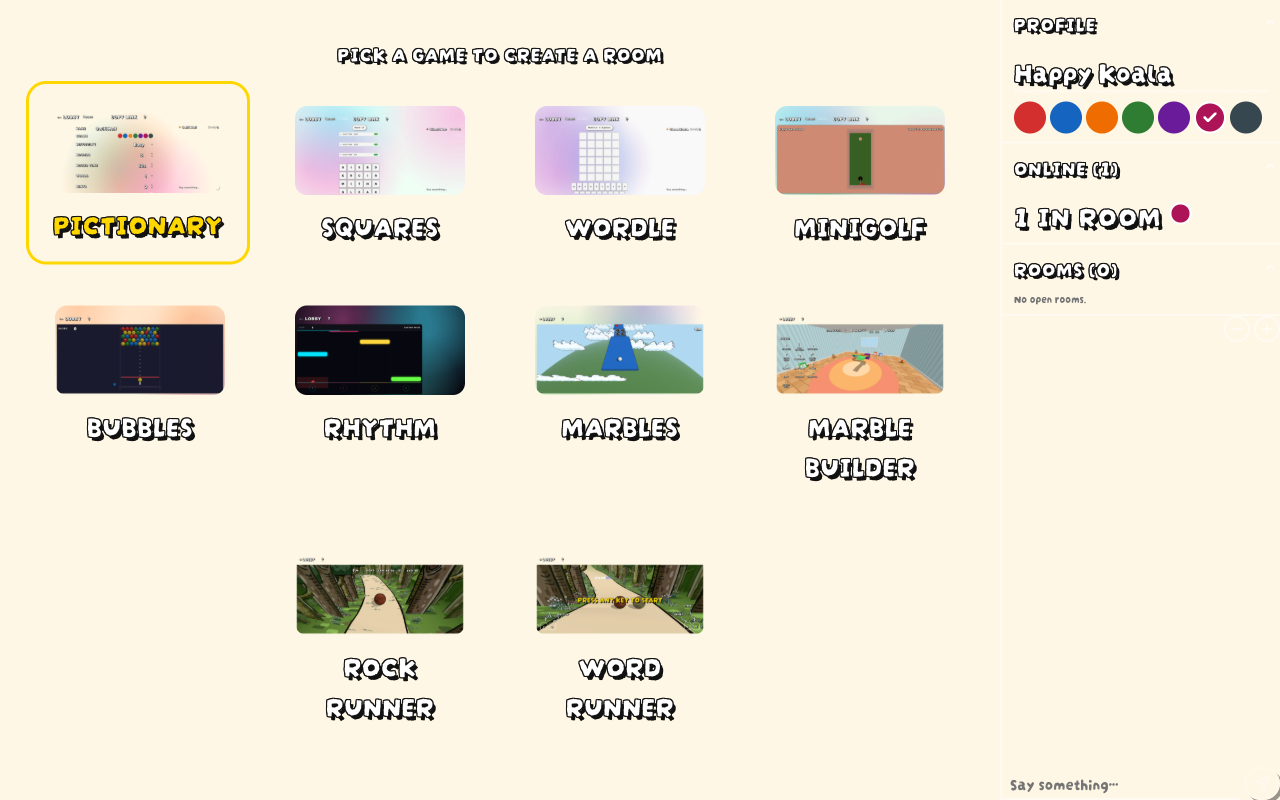
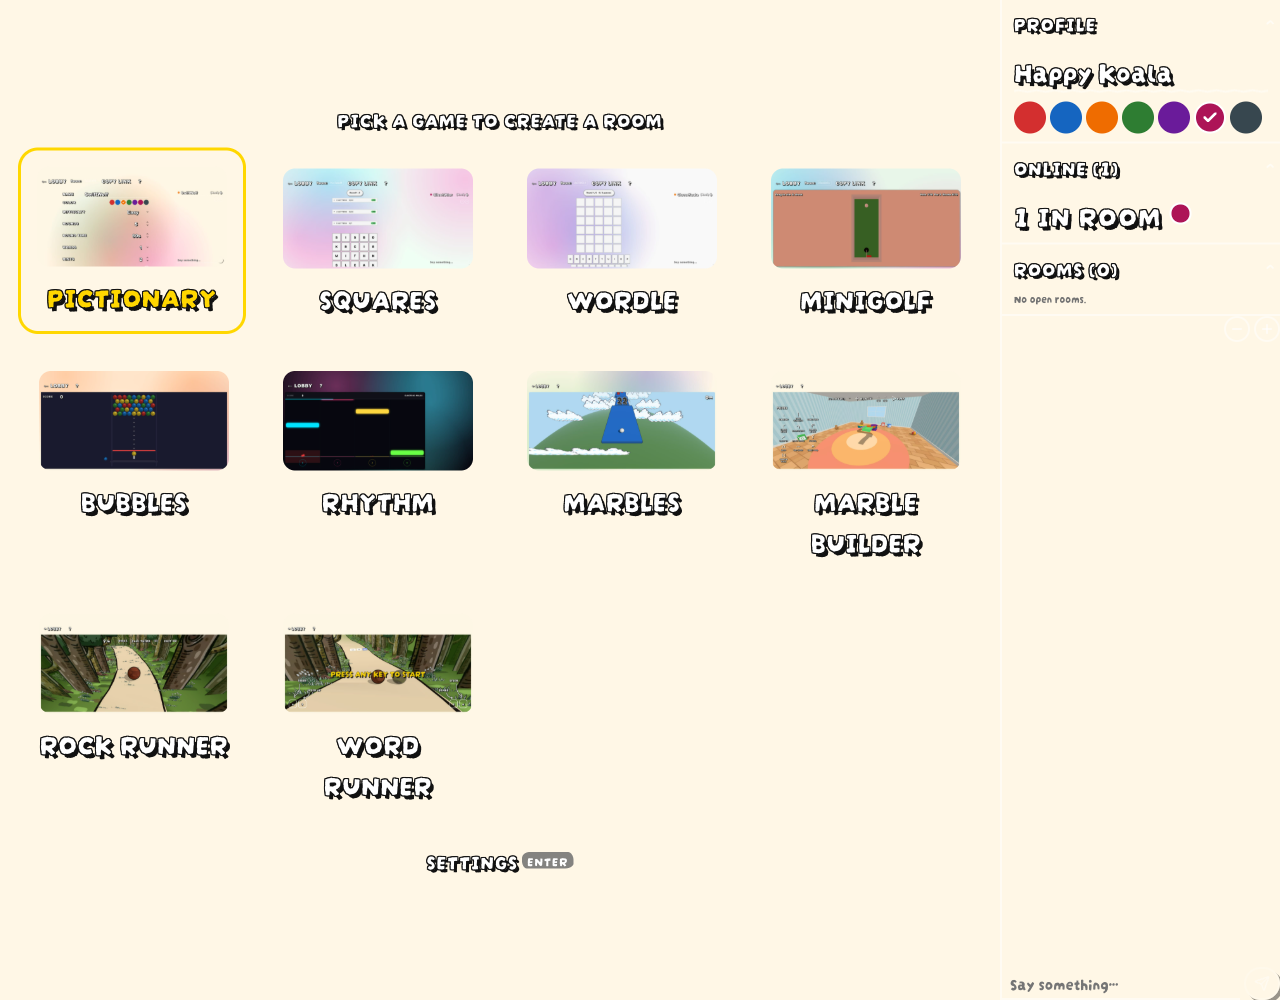
fix: use our own Trystero app id so lobby and game peers find each other, lay the picker out as a grid

diff --git a/src/views/Games/Lobby/Lobby.vue b/src/views/Games/Lobby/Lobby.vue
@@ -516,24 +516,24 @@ onMounted(async () => {
 }
 
 .lobby__picker-games {
-  display: flex;
+  display: grid;
+  grid-template-columns: repeat(auto-fill, minmax(13rem, 1fr));
   gap: var(--spacing-4);
-  flex-wrap: wrap;
-  justify-content: center;
+  width: min(100%, 60rem);
 }
 
 .lobby__game-card {
   display: flex;
   flex-direction: column;
   align-items: center;
+  justify-content: flex-start;
   gap: var(--spacing-2);
-  padding: var(--spacing-5, 1.5rem) var(--spacing-6, 2rem);
+  padding: var(--spacing-4);
   border: 3px solid transparent;
   border-radius: 1.25rem;
   background: transparent;
   cursor: pointer;
   transition: transform 0.1s ease;
-  width: 14rem;
   touch-action: manipulation;
 }
 
@@ -679,16 +679,12 @@ onMounted(async () => {
 
   .lobby__picker-games {
     gap: var(--spacing-3);
-    flex-wrap: nowrap;
-    overflow-x: auto;
-    width: 100%;
-    justify-content: flex-start;
+    grid-template-columns: repeat(auto-fill, minmax(9rem, 1fr));
+    overflow-y: auto;
   }
 
   .lobby__game-card {
-    padding: var(--spacing-3) var(--spacing-4);
-    width: 10rem;
-    flex: 0 0 auto;
+    padding: var(--spacing-3);
   }
 }
 </style>

diff --git a/src/views/Games/Lobby/useLobbySession.ts b/src/views/Games/Lobby/useLobbySession.ts
@@ -13,6 +13,7 @@ import { chatMessageCreate, type ChatMessage } from '@webgamekit/chat'
 import { useLobbyStore } from '@/stores/lobby'
 import type { LobbyPlayer, LobbyRoom } from '@/types/lobby'
 import { LOBBY_CHANNEL, REANNOUNCE_MS } from './constants'
+import { P2P_CONFIG } from '@/config/p2p'
 
 const HELLO_CHANNEL = 'lb-hello'
 const CHAT_CHANNEL = 'lb-chat'
@@ -55,7 +56,7 @@ export const useLobbySession = (initialName: string, initialColor: string) => {
 
   const init = (): void => {
     if (!p2pIsSupported()) return
-    const joined = p2pJoin(LOBBY_CHANNEL)
+    const joined = p2pJoin(LOBBY_CHANNEL, P2P_CONFIG)
     session.value = joined
     localPeerId.value = joined.peerId
 

diff --git a/src/views/Games/Pictionary/usePictionarySession.ts b/src/views/Games/Pictionary/usePictionarySession.ts
@@ -18,6 +18,7 @@ import {
 import { dictionaryPickRandom, type DictionaryDifficulty } from '@webgamekit/dictionary'
 import type { StrokeEvent, FillEvent } from '@webgamekit/canvas-editor'
 import { usePictionaryStore, type PictionaryPlayer } from '@/stores/pictionary'
+import { P2P_CONFIG } from '@/config/p2p'
 
 const INTERMISSION_MS = 10_000
 const CHOICE_DURATION_MS = 10_000
@@ -385,7 +386,7 @@ const initSessionForContext = (ctx: PictionaryContext, roomId: string): void => 
     })
     return
   }
-  const joined = p2pJoin(roomId)
+  const joined = p2pJoin(roomId, P2P_CONFIG)
   ctx.session.value = joined
   ctx.localPeerId.value = joined.peerId
   announceSelf(ctx, joined)

diff --git a/src/views/Games/Minigolf/useMinigolfSession.ts b/src/views/Games/Minigolf/useMinigolfSession.ts
@@ -12,6 +12,7 @@ import {
 import { chatMessageCreate, type ChatMessage } from '@webgamekit/chat'
 import { useMinigolfStore, type MgPlayer } from '@/stores/minigolf'
 import { REANNOUNCE_DELAY_MS } from './constants'
+import { P2P_CONFIG } from '@/config/p2p'
 
 const HELLO_CHANNEL = 'mg-hello'
 const AVATAR_CHANNEL = 'mg-avatar'
@@ -189,7 +190,7 @@ const initSessionForContext = (ctx: MgContext, roomId: string): void => {
     })
     return
   }
-  const joined = p2pJoin(roomId)
+  const joined = p2pJoin(roomId, P2P_CONFIG)
   ctx.session.value = joined
   ctx.localPeerId.value = joined.peerId
   announceSelf(ctx, joined)

diff --git a/src/composables/useBaseMultiplayerSession.ts b/src/composables/useBaseMultiplayerSession.ts
@@ -10,6 +10,7 @@ import {
   p2pIsSupported,
   type P2PSession
 } from '@webgamekit/multiplayer-p2p'
+import { P2P_CONFIG } from '@/config/p2p'
 
 const REANNOUNCE_DELAY_MS = 2000
 
@@ -99,7 +100,7 @@ export const useBaseMultiplayerSession = <
   const isHost = computed(() => !!localPeerId.value && options.getHostId() === localPeerId.value)
 
   const _connect = async (roomId: string): Promise<void> => {
-    const s = await p2pJoin(roomId, options.matchmakerRoom)
+    const s = await p2pJoin(roomId, P2P_CONFIG)
     session.value = s
     localPeerId.value = s.peerId
     announceSelf(s, options)

diff --git a/src/views/Games/BubbleShooter/useBubbleShooterSession.ts b/src/views/Games/BubbleShooter/useBubbleShooterSession.ts
@@ -22,6 +22,7 @@ import type {
   UseBubbleShooterSessionOptions,
   BsContext
 } from './types'
+import { P2P_CONFIG } from '@/config/p2p'
 
 const CONFIG_CHANNEL = 'bs-config'
 const HELLO_CHANNEL = 'bs-hello'
@@ -134,7 +135,7 @@ const bindGameEvents = (ctx: BsContext, joined: P2PSession): void => {
 
 const initSessionForContext = (ctx: BsContext, roomId: string): void => {
   if (!p2pIsSupported()) return
-  const joined = p2pJoin(roomId)
+  const joined = p2pJoin(roomId, P2P_CONFIG)
   ctx.session.value = joined
   ctx.localPeerId.value = joined.peerId
   announceSelf(ctx, joined)

diff --git a/src/views/Games/MarbleMadness/useMarbleMadnessSession.ts b/src/views/Games/MarbleMadness/useMarbleMadnessSession.ts
@@ -22,6 +22,7 @@ import type {
   UseMarbleMadnessSessionOptions,
   MmContext
 } from './types'
+import { P2P_CONFIG } from '@/config/p2p'
 
 const HELLO_CHANNEL = 'mm-hello'
 const AVATAR_CHANNEL = 'mm-avatar'
@@ -183,7 +184,7 @@ const bindGameEvents = (ctx: MmContext, joined: P2PSession): void => {
 
 const initSessionForContext = (ctx: MmContext, roomId: string): void => {
   if (!p2pIsSupported()) return
-  const joined = p2pJoin(roomId)
+  const joined = p2pJoin(roomId, P2P_CONFIG)
   ctx.session.value = joined
   ctx.localPeerId.value = joined.peerId
   announceSelf(ctx, joined)

diff --git a/src/views/Games/WordleMultiplayer/useWordleMultiplayerSession.ts b/src/views/Games/WordleMultiplayer/useWordleMultiplayerSession.ts
@@ -25,6 +25,7 @@ import {
   POINTS_FIRST_BONUS,
   POINTS_MINIMUM
 } from './constants'
+import { P2P_CONFIG } from '@/config/p2p'
 
 const ROUND_CHANNEL = 'wl-round'
 const GUESS_CHANNEL = 'wl-guess'
@@ -270,7 +271,7 @@ const bindGameEvents = (ctx: WlContext, joined: P2PSession): void => {
 
 const initSessionForContext = (ctx: WlContext, roomId: string): void => {
   if (!p2pIsSupported()) return
-  const joined = p2pJoin(roomId)
+  const joined = p2pJoin(roomId, P2P_CONFIG)
   ctx.session.value = joined
   ctx.localPeerId.value = joined.peerId
   announceSelf(ctx, joined)

diff --git a/src/views/Games/WordRunner/useWordRunnerSession.ts b/src/views/Games/WordRunner/useWordRunnerSession.ts
@@ -21,6 +21,7 @@ import type {
   WrSessionOptions,
   WrStartPayload
 } from './types'
+import { P2P_CONFIG } from '@/config/p2p'
 
 const AVATAR_CHANNEL = 'wr-avatar'
 const START_CHANNEL = 'wr-start'
@@ -180,7 +181,7 @@ export const useWordRunnerSession = (options: WrSessionOptions, callbacks: Sessi
 
   const init = (): void => {
     if (!p2pIsSupported()) return
-    const joined = p2pJoin(options.roomId)
+    const joined = p2pJoin(options.roomId, P2P_CONFIG)
     session.value = joined
     localPeerId.value = joined.peerId
     announceSelf(context, joined)

diff --git a/src/views/Games/MarbleEditor/useMarbleEditorSession.ts b/src/views/Games/MarbleEditor/useMarbleEditorSession.ts
@@ -22,6 +22,7 @@ import type {
   UseMarbleEditorSessionOptions,
   MeSessionCallbacks
 } from './types'
+import { P2P_CONFIG } from '@/config/p2p'
 
 const AVATAR_CHANNEL = 'me-avatar'
 const MAP_CHANNEL = 'me-map'
@@ -221,7 +222,7 @@ export const useMarbleEditorSession = (
 
   const init = (): void => {
     if (!p2pIsSupported()) return
-    const joined = p2pJoin(options.roomId)
+    const joined = p2pJoin(options.roomId, P2P_CONFIG)
     session.value = joined
     localPeerId.value = joined.peerId
     announceSelf(context, joined)

diff --git a/src/views/Games/RockRunner/useRockRunnerSession.ts b/src/views/Games/RockRunner/useRockRunnerSession.ts
@@ -20,6 +20,7 @@ import type {
   UseRockRunnerSessionOptions,
   RrSessionCallbacks
 } from './types'
+import { P2P_CONFIG } from '@/config/p2p'
 
 const AVATAR_CHANNEL = 'rr-avatar'
 const START_CHANNEL = 'rr-start'
@@ -185,7 +186,7 @@ export const useRockRunnerSession = (
 
   const init = (): void => {
     if (!p2pIsSupported()) return
-    const joined = p2pJoin(options.roomId)
+    const joined = p2pJoin(options.roomId, P2P_CONFIG)
     session.value = joined
     localPeerId.value = joined.peerId
     announceSelf(context, joined)

diff --git a/src/views/Games/SquaresMultiplayer/useSquaresMultiplayerSession.ts b/src/views/Games/SquaresMultiplayer/useSquaresMultiplayerSession.ts
@@ -36,6 +36,7 @@ import {
   scoreWord,
   shuffleArray
 } from './squaresMultiplayerUtilities'
+import { P2P_CONFIG } from '@/config/p2p'
 
 const ROUND_CHANNEL = 'sm-round'
 const WORD_CLAIM_CHANNEL = 'sm-claim'
@@ -243,7 +244,7 @@ const initSessionForContext = (ctx: WmContext, roomId: string): void => {
     })
     return
   }
-  const joined = p2pJoin(roomId)
+  const joined = p2pJoin(roomId, P2P_CONFIG)
   ctx.session.value = joined
   ctx.localPeerId.value = joined.peerId
   announceSelf(ctx, joined)
